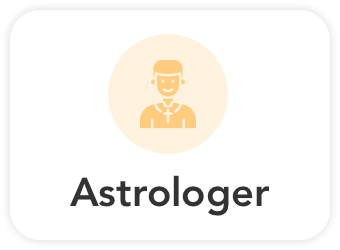
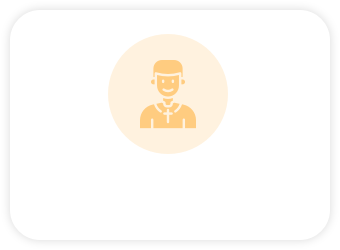
changes ResetPassword

Changed region(s): [[0.2059, 0.7, 0.7941, 0.868]]

diff --git a/src/Screens/ResetPassword.js b/src/Screens/ResetPassword.js
@@ -2,16 +2,62 @@ import { View, Text, Image, StyleSheet, Dimensions, TextInput, StatusBar, SafeAr
 import React, { useEffect, useState } from 'react'
 import Button from 'react-native-button';
 import stringsoflanguages from '../language/Language'
+import Loader from '../utils/Loader';
+import { PasswordReset } from '../backend/Api';
+import Toast from 'react-native-simple-toast';
+import GLobal, { data } from './GLobal';
 
 const ResetPassword = ({ navigation }) => {
     const window = Dimensions.get('window');
     const { width, height } = Dimensions.get('window');
     const { _astrologerForm, _kundali, _customlang, _otp } = stringsoflanguages
+    const [password, setPassword] = useState('')
+    const [conPassword, setConPassword] = useState('')
+    const [state, setState] = useState({
+        loading: false,
+    });
+    const toggleLoading = bol => setState({ ...state, loading: bol });
 
+    const resetpasswordapi = () => {
+        if (password == '') {
+            Toast.show('Please enter new password');
+        }
+        else if (conPassword == '') {
+            Toast.show('Please enter your confirm New password');
+        }
+        else if (password != conPassword) {
+            Toast.show('Password and Confirm new password not match');
+        }
+        else {
+            toggleLoading(true);
+            let e = {
+                user_id: GLobal.user_id,
+                password: password
+            };
+            console.log('....... Reset Password body', e)
+            PasswordReset(e)
+                .then(data => {
+                    toggleLoading(false);
+                    // alert(JSON.stringify(data, null, 2))
+                    console.log('....... Reset Password response', data)
+                    if (data.status) {
+                        Toast.show(data.msg)
+                        navigation.replace('SignIn')
+                    } else {
+                        alert(data.msg);
+                    }
+                })
+                .catch(error => {
+                    toggleLoading(false);
+                    console.log('error', error);
+                });
+        }
+    }
 
     return (
         <SafeAreaView style={{ flex: 1, backgroundColor: 'white' }}>
             <StatusBar barStyle="dark-content" backgroundColor="white" />
+            {state.loading && <Loader />}
             <ScrollView>
 
                 <Text
@@ -44,33 +90,6 @@ const ResetPassword = ({ navigation }) => {
                         marginTop: 30,
                         marginHorizontal: 18,
                     }}>
-                    {_astrologerForm.password}
-                </Text>
-                <TextInput
-                    style={{
-                        fontSize: 16,
-                        fontFamily: 'AvenirLTStd-Medium',
-                        borderRadius: 10,
-                        borderColor: '#00000020',
-                        borderWidth: 1.5,
-                        marginTop: 10,
-                        marginHorizontal: 18,
-                        paddingHorizontal: 15,
-                        paddingVertical: 11,
-                        color: '#333333',
-                    }}
-                    placeholderTextColor={'#333333'}
-                    placeholder={_astrologerForm.password}
-                />
-                <Text
-                    style={{
-                        fontFamily: 'AvenirLTStd-Medium',
-                        color: '#ADADAD',
-                        fontSize: 18,
-                        letterSpacing: -0.2,
-                        marginTop: 19,
-                        marginHorizontal: 18,
-                    }}>
                     {_otp.newpassword}
                 </Text>
                 <TextInput
@@ -87,7 +106,38 @@ const ResetPassword = ({ navigation }) => {
                         color: '#333333',
                     }}
                     placeholderTextColor={'#333333'}
+                    value={password}
+                    onChangeText={value => setPassword(value)}
                     placeholder={_otp.newpassword}
+                />
+                <Text
+                    style={{
+                        fontFamily: 'AvenirLTStd-Medium',
+                        color: '#ADADAD',
+                        fontSize: 18,
+                        letterSpacing: -0.2,
+                        marginTop: 19,
+                        marginHorizontal: 18,
+                    }}>
+                    {_otp.cpassword}
+                </Text>
+                <TextInput
+                    style={{
+                        fontSize: 16,
+                        fontFamily: 'AvenirLTStd-Medium',
+                        borderRadius: 10,
+                        borderColor: '#00000020',
+                        borderWidth: 1.5,
+                        marginTop: 10,
+                        marginHorizontal: 18,
+                        paddingHorizontal: 15,
+                        paddingVertical: 11,
+                        color: '#333333',
+                    }}
+                    placeholderTextColor={'#333333'}
+                    value={conPassword}
+                    onChangeText={value => setConPassword(value)}
+                    placeholder={_otp.cpassword}
                 />
 
             </ScrollView>
@@ -110,7 +160,7 @@ const ResetPassword = ({ navigation }) => {
                     fontFamily: 'AvenirLTStd-Medium',
                 }}
                 onPress={() => {
-                    navigation.replace('SignIn')
+                    resetpasswordapi()
                 }}>
                 {_customlang.submit}
             </Button>

diff --git a/src/Screens/SelectType.js b/src/Screens/SelectType.js
@@ -5,7 +5,7 @@ import stringsoflanguages from '../language/Language'
 const SelectType = ({ navigation }) => {
     const window = Dimensions.get('window');
     const { width, height } = Dimensions.get('window');
-    const { _astrologerForm } = stringsoflanguages
+    const { _astrologerForm, _type } = stringsoflanguages
     return (
         <SafeAreaView style={{ flex: 1 }}>
             <StatusBar barStyle="dark-content" backgroundColor="white" />
@@ -14,7 +14,7 @@ const SelectType = ({ navigation }) => {
 
                 <Text style={{
                     marginTop: height / 3.2,
-                    fontSize: 30,
+                    fontSize: 30, 
                     color: '#333333',
                     fontFamily: 'AvenirLTStd-Heavy',
                     textAlign: 'center',
@@ -23,28 +23,53 @@ const SelectType = ({ navigation }) => {
                 </Text>
                 <View style={{ flexDirection: 'row', marginLeft: 18, marginTop: 20 }}>
                     <Pressable onPress={() => { navigation.navigate('AstrologerRegister') }}>
-                        <Image
+                        <ImageBackground
+                            resizeMode='contain'
                             style={{
                                 width: window.width / 2 - 18,
                                 height: 115,
-                                resizeMode: 'contain',
 
                             }}
-                            source={require('../assets/astrologer1.png')} />
+                            source={require('../assets/astrologer1.png')} >
+                            <Text numberOfLines={1}
+                                style={{
+                                    fontFamily: 'AvenirLTStd-Heavy',
+                                    color: '#333333',
+                                    fontSize: 20,
+                                    textAlign: 'center',
+                                    position: 'absolute',
+                                    bottom: 14,
+                                    alignSelf: 'center',
+                                }}>
+                                {_type.astrologer}
+                            </Text>
+                        </ImageBackground>
                     </Pressable>
                     <Pressable onPress={() => { navigation.navigate('SignUp') }}>
-                        <Image
+                        <ImageBackground
+                            resizeMode='contain'
                             style={{
                                 width: window.width / 2 - 18,
                                 height: 115,
-                                resizeMode: 'contain',
-
                             }}
-                            source={require('../assets/user1.png')} />
+                            source={require('../assets/user1.png')} >
+                            <Text numberOfLines={1}
+                                style={{
+                                    fontFamily: 'AvenirLTStd-Heavy',
+                                    color: '#333333',
+                                    fontSize: 20,
+                                    position: 'absolute',
+                                    bottom: 14,
+                                    alignSelf: 'center',
+                                    textAlign: 'center',
+                                }}>
+                                {_type.user}
+                            </Text>
+                        </ImageBackground>
                     </Pressable>
                 </View>
             </ImageBackground>
-        </SafeAreaView>
+        </SafeAreaView >
     )
 }
 

diff --git a/src/Screens/ForgotPassword.js b/src/Screens/ForgotPassword.js
@@ -2,16 +2,52 @@ import { View, Text, Image, StyleSheet, Dimensions, TextInput, StatusBar, SafeAr
 import React, { useEffect, useState } from 'react'
 import Button from 'react-native-button';
 import stringsoflanguages from '../language/Language'
+import Loader from '../utils/Loader';
+import { Passwordforgot } from '../backend/Api';
+import Toast from 'react-native-simple-toast';
+import GLobal, { data } from './GLobal';
 
 const ForgotPassword = ({ navigation }) => {
     const window = Dimensions.get('window');
     const { width, height } = Dimensions.get('window');
     const { _astrologerForm, _kundali, _customlang } = stringsoflanguages
+    const [mobile, setMobile] = useState('')
+    const [state, setState] = useState({
+        loading: false,
+    });
+    const toggleLoading = bol => setState({ ...state, loading: bol });
 
-
+    const passwordapi = () => {
+        if (mobile === '' || mobile.length !== 10) {
+            Toast.show('Please enter your valid phone number');
+        }
+        else {
+            toggleLoading(true);
+            let e = {
+                mobile: mobile
+            };
+            Passwordforgot(e)
+                .then(data => {
+                    toggleLoading(false);
+                    // alert(JSON.stringify(data, null, 2))
+                    console.log(data)
+                    if (data.status) {
+                        GLobal.user_id = data.user_id
+                        navigation.replace('Otp')
+                    } else {
+                        alert(data.msg);
+                    }
+                })
+                .catch(error => {
+                    toggleLoading(false);
+                    console.log('error', error);
+                });
+        }
+    }
     return (
         <SafeAreaView style={{ flex: 1, backgroundColor: 'white' }}>
             <StatusBar barStyle="dark-content" backgroundColor="white" />
+            {state.loading && <Loader />}
             <ScrollView>
 
                 <Text
@@ -62,6 +98,8 @@ const ForgotPassword = ({ navigation }) => {
                     placeholderTextColor={'#333333'}
                     keyboardType='numeric'
                     maxLength={10}
+                    value={mobile}
+                    onChangeText={(text) => setMobile(text)}
                     placeholder={_kundali.mobile}
                 />
 
@@ -85,7 +123,7 @@ const ForgotPassword = ({ navigation }) => {
                     fontFamily: 'AvenirLTStd-Medium',
                 }}
                 onPress={() => {
-                    navigation.replace('Otp')
+                    passwordapi()
                 }}>
                 {_customlang.submit}
             </Button>

diff --git a/src/language/Language.js b/src/language/Language.js
@@ -2,6 +2,10 @@ import LocalizedStrings from 'react-native-localization';
 
 let stringsoflanguages = new LocalizedStrings({
     en: {
+        _type: {
+            user: 'User',
+            astrologer: 'Astrologer',
+        },
         _drawer: {
             home: 'Home',
             order: 'My Orders',
@@ -216,13 +220,17 @@ let stringsoflanguages = new LocalizedStrings({
             setnewpassword: 'Set New Password',
             newtext: 'Strong Passwords Include Numbers, Letters, And Punctuation Marks.',
             newpassword: 'New Password',
+            cpassword: 'Confirm Password',
         },
 
 
     },
 
     hi: {
-
+        _type: {
+            user: 'उपयोगकर्ता',
+            astrologer: 'ज्योतिषी',
+        },
         _customlang: {
             title: 'अपनी पसंदीदा भाषा चुनें',
             button: 'अगला',

diff --git a/src/backend/Api.js b/src/backend/Api.js
@@ -147,6 +147,8 @@ export const City1 = json => requestGet(PATH_URL.city1, json);
 export const Packagelist = json => request(PATH_URL.package, json);
 export const AstrologerUserApi = json => request(PATH_URL.astrologeruserlogin, json);
 export const SkipHome = json => request(PATH_URL.skip, json);
+export const Passwordforgot = json => request(PATH_URL.forgot, json);
+export const PasswordReset = json => request(PATH_URL.changepassword, json);
 
 //token
 export const Homebanner = json => requesth(PATH_URL.homebanner, json);

diff --git a/src/Screens/Otp.js b/src/Screens/Otp.js
@@ -103,7 +103,7 @@ const Otp = ({ navigation }) => {
                     fontFamily: 'AvenirLTStd-Medium',
                 }}
                 onPress={() => {
-                    if ([1, 2].includes(GLobal.user.type == 2)) {
+                    if ([1, 2].includes(GLobal.user.type)) {
                         navigation.replace('Package')
                     }
                     else {

diff --git a/src/Screens/SelectLanguage.js b/src/Screens/SelectLanguage.js
@@ -84,7 +84,7 @@ const SelectLanguage = ({ navigation }) => {
                     fontFamily: 'AvenirLTStd-Medium',
                 }}
                 onPress={() => {
-                    navigation.navigate('SelectType')
+                    navigation.replace('SelectType')
                 }}>
                 {_customlang.submit}
             </Button>

diff --git a/src/Screens/GLobal.js b/src/Screens/GLobal.js
@@ -51,6 +51,7 @@ module.exports = {
     user: {},
     id: '',
     amount: '',
+    user_id: '',
 
     startConsuldocBookType: '',
     startConsultation: '',
@@ -68,7 +69,6 @@ module.exports = {
     home: 'home',
     Signin: 'Signin',
     guid: '',
-    user_id: '',
     userDetails: {},
     walletAmount: 0,
     headerTitle: '',

diff --git a/src/backend/Config.js b/src/backend/Config.js
@@ -25,6 +25,8 @@ export const PATH_URL = {
   updateProfile: 'astrologer-user/edit-profile',
   astrologeruserlogin: 'astrologer-user/login',
   skip: 'guest-user',
+  forgot: 'forget-password',
+  changepassword: 'password-change',
 
 };
 
